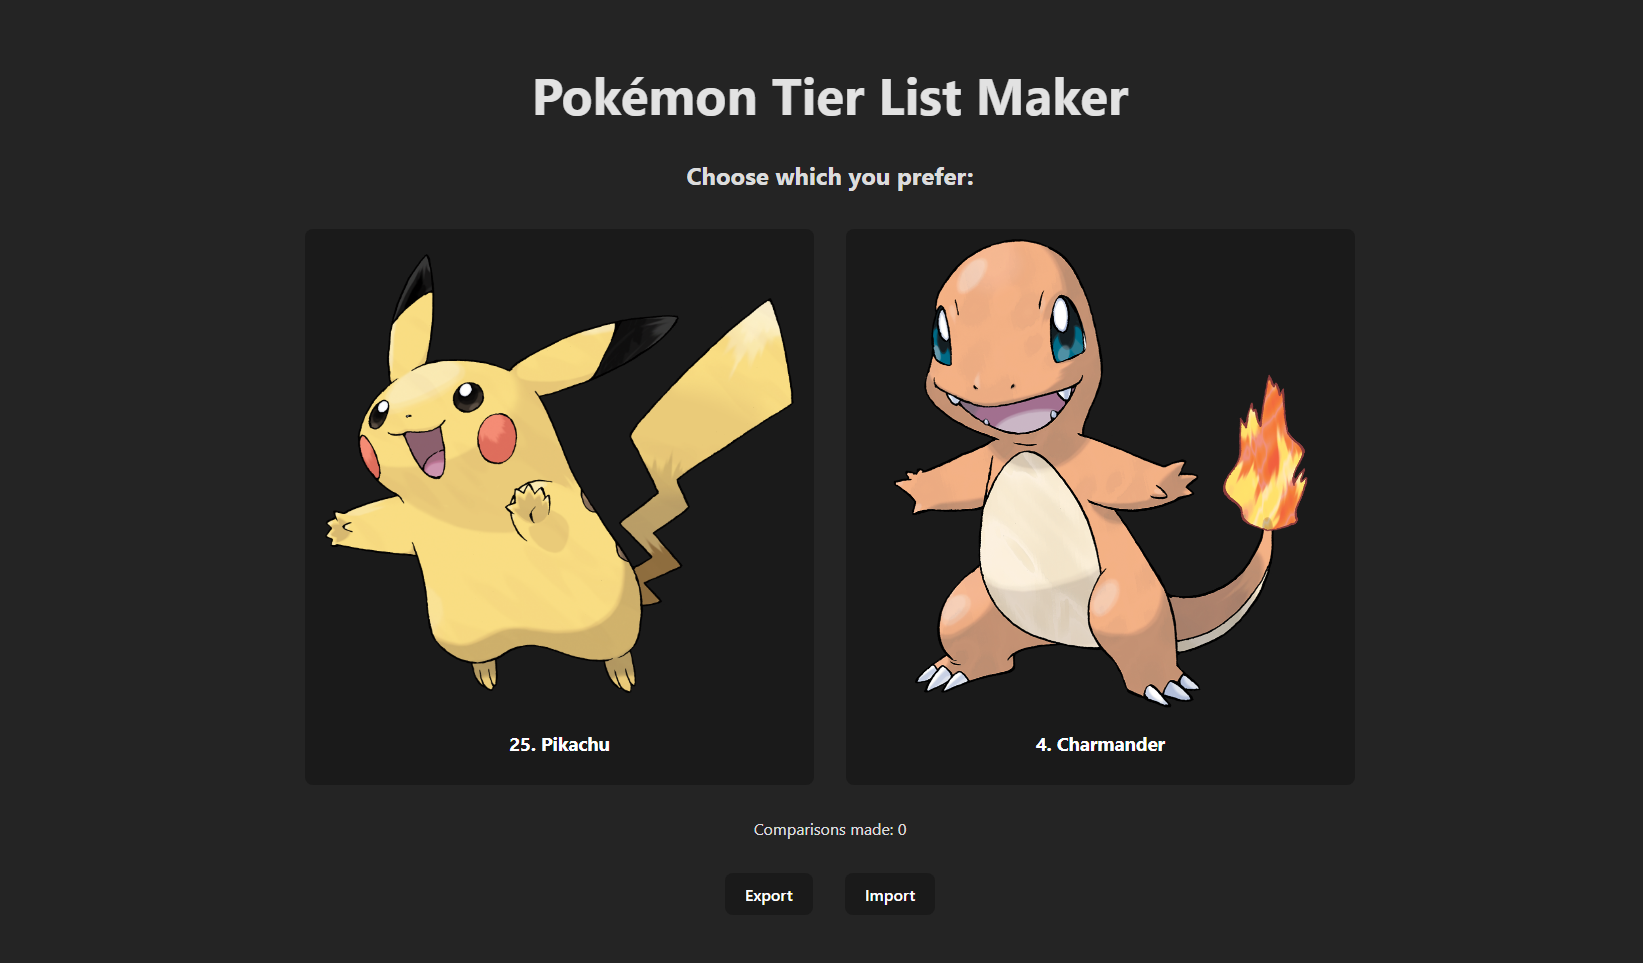
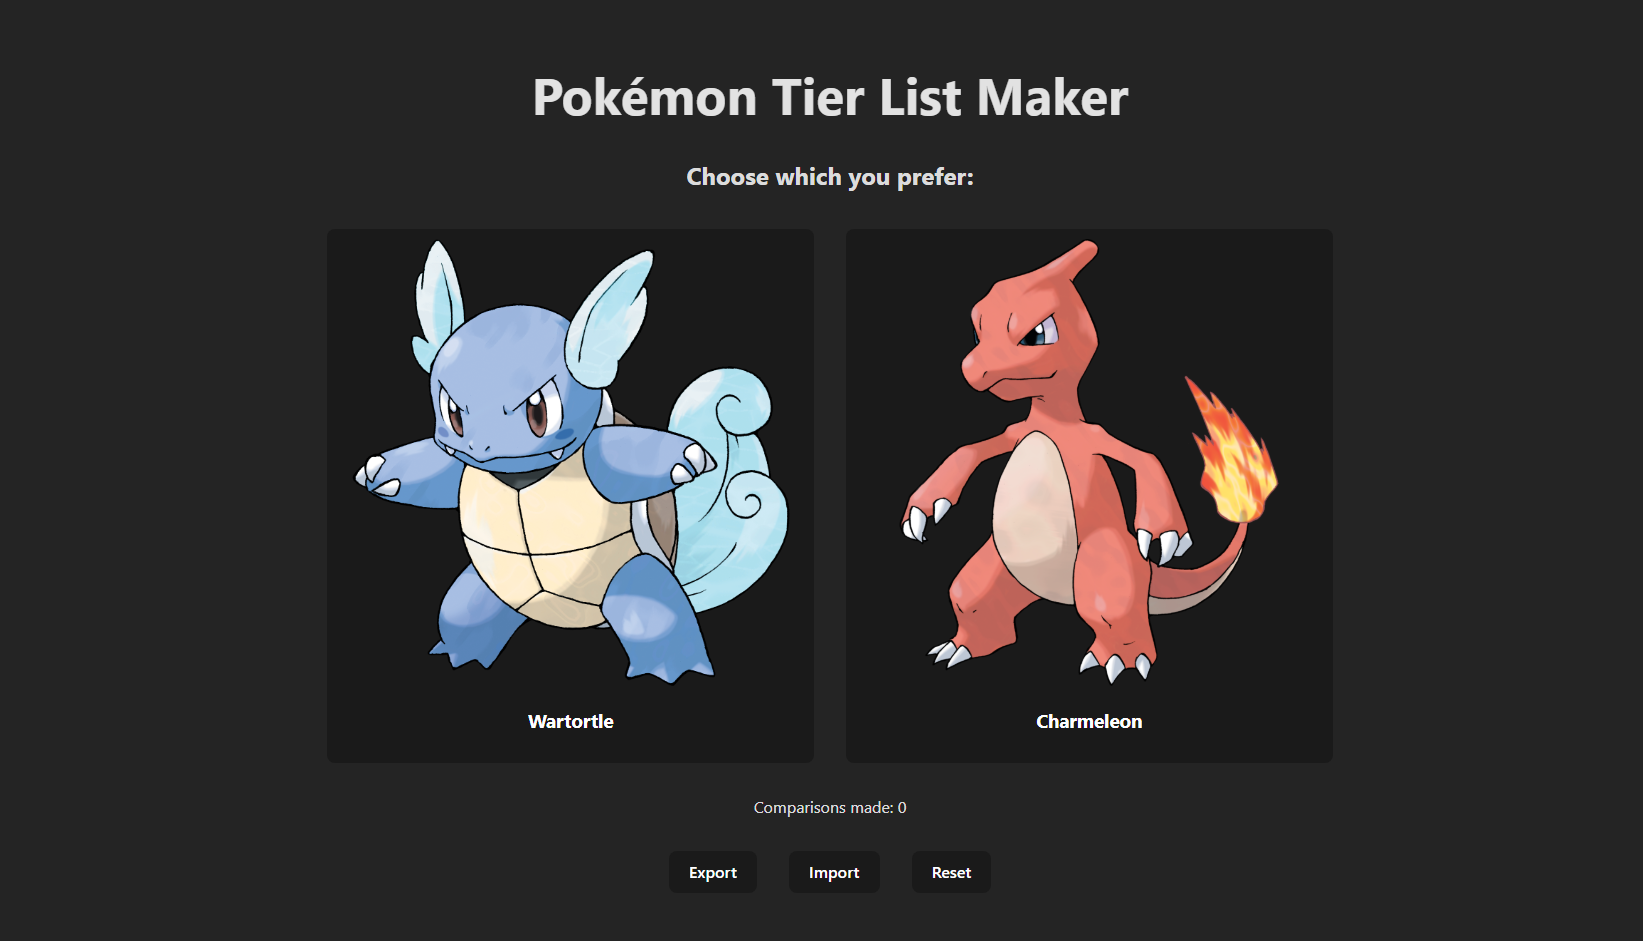
Added export/import to result screen
- Updated README

diff --git a/src/components/tier-list-maker.tsx b/src/components/tier-list-maker.tsx
@@ -98,7 +98,7 @@ export default function TierListMaker() {
         <>
 
             {done ? (
-                <TierListResult tierList={tierList} counter={counter} handleReset={handleReset}></TierListResult>
+                <TierListResult tierList={tierList} counter={counter}></TierListResult>
             ) : (
                 <>
                     <PairChooser pokemon1={pokemon1}
@@ -106,14 +106,15 @@ export default function TierListMaker() {
                                  onChosenChange={choosePokemon}>
                     </PairChooser>
                     <p>Comparisons made: {counter}</p>
-                    <button onClick={handleExport} className="inline">Export</button>
-                    <form className="inline">
-                        <button onClick={handleImport}>Import</button>
-                        <input ref={inputRef} type="file" hidden onChange={handleFileUpload}/>
-                    </form>
-                    <button onClick={handleReset} className="inline">Reset</button>
+
                 </>
             )}
+            <button onClick={handleExport} className="inline">Export</button>
+            <form className="inline">
+                <button onClick={handleImport}>Import</button>
+                <input ref={inputRef} type="file" hidden onChange={handleFileUpload}/>
+            </form>
+            <button onClick={handleReset} className="inline">Reset</button>
         </>
     )
 }

diff --git a/src/components/tier-list-result.tsx b/src/components/tier-list-result.tsx
@@ -3,10 +3,9 @@ import {toPng} from "html-to-image"
 import {logger} from "../functions/logger.ts"
 import {PokemonObject} from "../functions/pokemon.ts"
 
-export default function TierListResult({tierList, counter, handleReset}: {
+export default function TierListResult({tierList, counter}: {
     tierList: PokemonObject[],
-    counter: number,
-    handleReset: () => void
+    counter: number
 }) {
     const [show, setShow] = useState(false)
     const imageRef = useRef<HTMLDivElement>(null)
@@ -45,7 +44,6 @@ export default function TierListResult({tierList, counter, handleReset}: {
             </div>
             <p>Comparisons made: {counter}</p>
             <button onClick={handleClick} className="inline">Download Image</button>
-            <button onClick={handleReset} className="inline">Reset</button>
             {show &&
                 <div ref={imageRef}>
                     <h2>My favorite Pokémon</h2>

diff --git a/README.md b/README.md
@@ -1,23 +1,24 @@
 # Pokémon Tier List Maker
 
-> WIP - Currently only contains 5 Pokémon
+> WIP - Currently only contains 11 Pokémon
 
 Creates a tier list by letting the user make a preference choice between pairs of Pokémon.
 
 ## Motivation
 
-I didn't see anything like this already existing.
-Closest is [Favorite Pokémon Chooser](https://quetzle.github.io/FavoritePokemon/) which only goes up to generation 6,
-shows you 10 favorites and doesn't cache your progress.
+I wanted to be able to create a tier list of all Pokémon in a simpler way than manually sorting them. There are some
+websites with similar functionality, but I decided to make my own to satisfy all my requirements.
 
-I would like to mention other great "favorite Pokémon" websites:
+Similar websites:
 
-- [TierMaker](https://tiermaker.com/create/every-pokmon-ever-fall-2020-all-dlc-601526) - lets you manually sort Pokémon
+- [Ultimate Favorite Pokemon Picker](https://cajunavenger.github.io) - Incredible table where user chooses their
+  favorites based on types and generation (Really fun!)
+- [Favorite Pokémon Picker](https://www.dragonflycave.com/favorite.html) - Closest to my functionality thanks to many
+  customization options. Lets user choose favorites and progressively limit them until the best one is chosen
+- [TierMaker](https://tiermaker.com/create/every-pokmon-ever-fall-2020-all-dlc-601526) - Lets user manually sort Pokémon
   into tiers
-- [Ultimate Favorite Pokemon Picker](https://cajunavenger.github.io) - incredible table where user chooses their
-  favorites based on types and generation
-- [Favorite Pokémon Picker](https://www.dragonflycave.com/favorite.html) - lets user choose favorites and progressively
-  limit them until the best one is chosen (can return multiple favorites and has many customization options)
+- [Favorite Pokémon Chooser](https://quetzle.github.io/FavoritePokemon/) - Only goes up to generation 6 and shows you 10
+  favorites
 
 ## Algorithm
 
@@ -45,3 +46,4 @@ Images sourced from [Bulbapedia](https://bulbapedia.bulbagarden.net/wiki/Main_Pa
 
 ![preview1](/public/preview1.png)
 ![preview2](/public/preview2.png)
+![result](/public/result.png)
